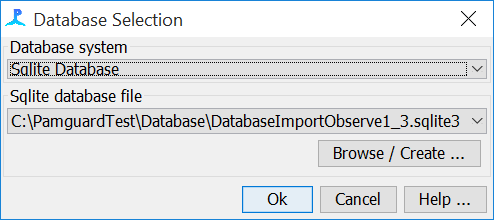
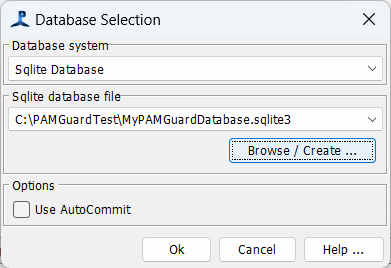
Autocommit update
Ensure database autocommit cuts in for database changes and update help page to explain how it works.

Changed region(s): [[0.0, 0.0, 1.0, 1.0]]

diff --git a/src/help/utilities/generalDatabaseHelp/docs/database_sqlite.html b/src/help/utilities/generalDatabaseHelp/docs/database_sqlite.html
@@ -26,12 +26,27 @@
 	</p>
 
 	<h3>Configuring an SQLite database</h3>
-	<img alt="SQLite Configuration" src="Images/databaseSQLite.png" />
+	<img src="Images/databaseSQLite.png" />
 	<br>
 	<p>PAMGuard will automatically create the necessary .sqlite3
 		database file on your computer.</p>
 	<p>You do not need to add tables to the database, PAMGuard will
 		automatically create the tables it needs.</p>
+	<h4>Auto commit</h4>
+	<p>If Auto commit is selected, the database file will be updated every time a new record is written
+	to the database. This can have a serious impact on overall performance, so it not recommended.</p>
+	<p> If you have NOT
+	selected auto commit, then changes will be written to the database at the following times:</p>
+	<ol>
+	<li>Every three seconds</li>
+	<li>Whenever the number of uncommitted records reaches 10
+	<li>Whenever PAMGuard stops</li>
+	<li>Whenever PAMGuard exits</li>
+	<li>Whenever tables are added to the database, or the database structure changed in any way</li>
+	<li>In <a href="../../../overview/PamMasterHelp/docs/viewerMode.html">Viewer Mode</a>, whenever the data about to be reloaded.</li>
+	</ol>
+	<p>You can also commit changes at any time, using the menu command 
+	<b>File/Database/Commit Changes</b>.</p>
 	<br>
 	<a href="database_database.html">Back to database main page</a>
 	</p>

diff --git a/src/whistleClassifier/WhistleClassifierProcess.java b/src/whistleClassifier/WhistleClassifierProcess.java
@@ -266,16 +266,20 @@ public class WhistleClassifierProcess extends PamProcess {
 					runClassification(timeMilliseconds);
 				}
 				clearFragmentStore(timeMilliseconds);
-				System.out.println("Clear Whistle Classifier store due to low whistle rate");
+//				System.out.println("Clear Whistle Classifier store due to low whistle rate");
 			}
 		}
 	}
 
 
 	private void newWhistleData(AbstractWhistleDataUnit shapeDataUnit) {
+		FragmentClassifierParams fragClassParams = getWhistleClassifierControl().getWhistleClassificationParameters().
+				fragmentClassifierParams;
+		if (fragClassParams == null) {
+			return;
+		}
 		if (!isTraining() && shapeDataUnit.getSliceCount() <
-				getWhistleClassifierControl().getWhistleClassificationParameters().
-				fragmentClassifierParams.minimumContourLength) {
+				fragClassParams.minimumContourLength) {
 			return;
 		}
 		int nFrags = fragmentWhistle(shapeDataUnit);

diff --git a/src/generalDatabase/sqlite/SqliteSystem.java b/src/generalDatabase/sqlite/SqliteSystem.java
@@ -126,7 +126,7 @@ public class SqliteSystem extends DBSystem implements PamSettings {
 		// if the file doesn't exit, consider creating it.
 		if (newFile.exists() == false) {
 			boolean ask = GlobalArguments.getParam(DBControl.GlobalDatabaseNameArg) == null;
-			newFile = createNewDatabase(databaseName, null, ask);
+			newFile = createNewDatabase(databaseName, dbControl.getGuiFrame(), ask);
 			if (newFile == null) {
 				System.out.println("Unable to create "+newFile);
 				return;

diff --git a/src/PamController/PamguardVersionInfo.java b/src/PamController/PamguardVersionInfo.java
@@ -33,12 +33,12 @@ public class PamguardVersionInfo {
 	 * Version number, major version.minorversion.sub-release. Note: can't go higher
 	 * than sub-release 'f'
 	 */
-	static public final String version = "2.02.17c";
+	static public final String version = "2.02.17d";
 
 	/**
 	 * Release date
 	 */
-	static public final String date = "August 2025";
+	static public final String date = "September 2025";
 
 //	/**
 //	 * Release type - Beta or Core

diff --git a/src/generalDatabase/DBControl.java b/src/generalDatabase/DBControl.java
@@ -355,6 +355,7 @@ PamSettingsSource {
 		synchronized (DBControl.class) {
 			try {
 				if (!connection.getConnection().getAutoCommit()) {
+//					System.out.println("Database commit");
 					connection.getConnection().commit();
 				}
 			} catch (SQLException e) {

diff --git a/src/generalDatabase/DBProcess.java b/src/generalDatabase/DBProcess.java
@@ -1355,6 +1355,9 @@ public class DBProcess extends PamProcess {
 		} else {
 			dbWriteErrors++;
 		}
+
+		dbCommitter.checkCommit(databaseControll.getConnection());
+		
 		return ok;
 	}
 
